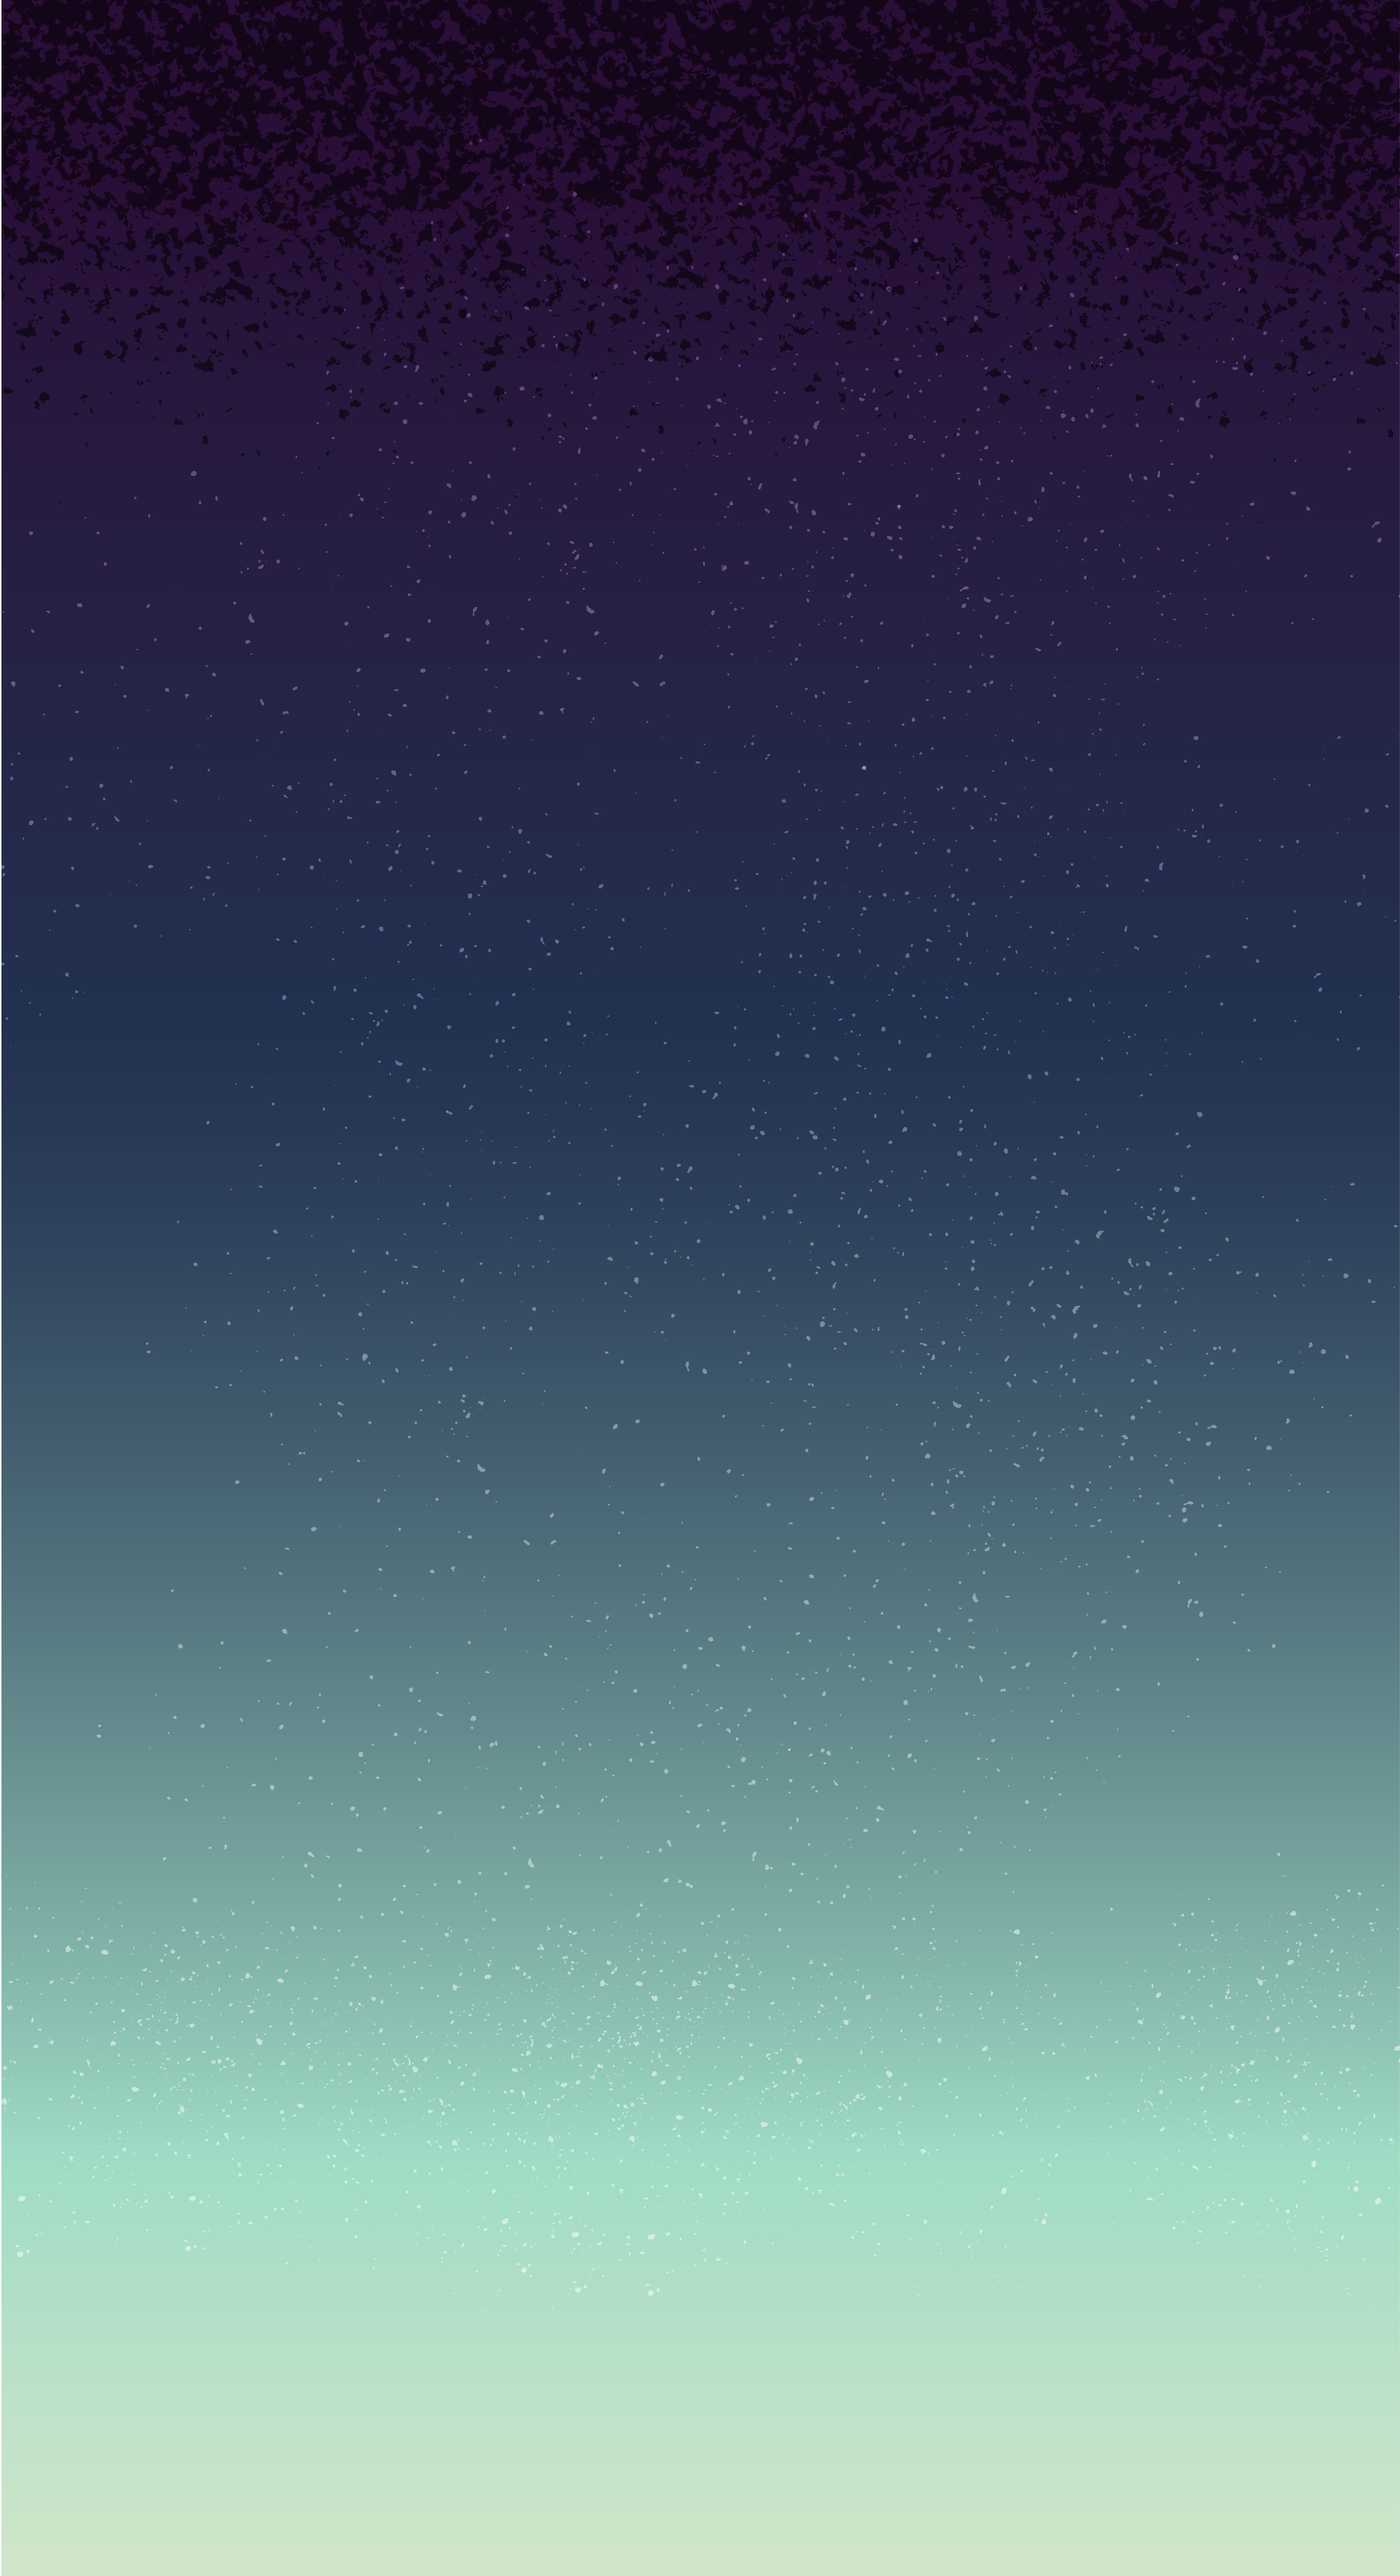
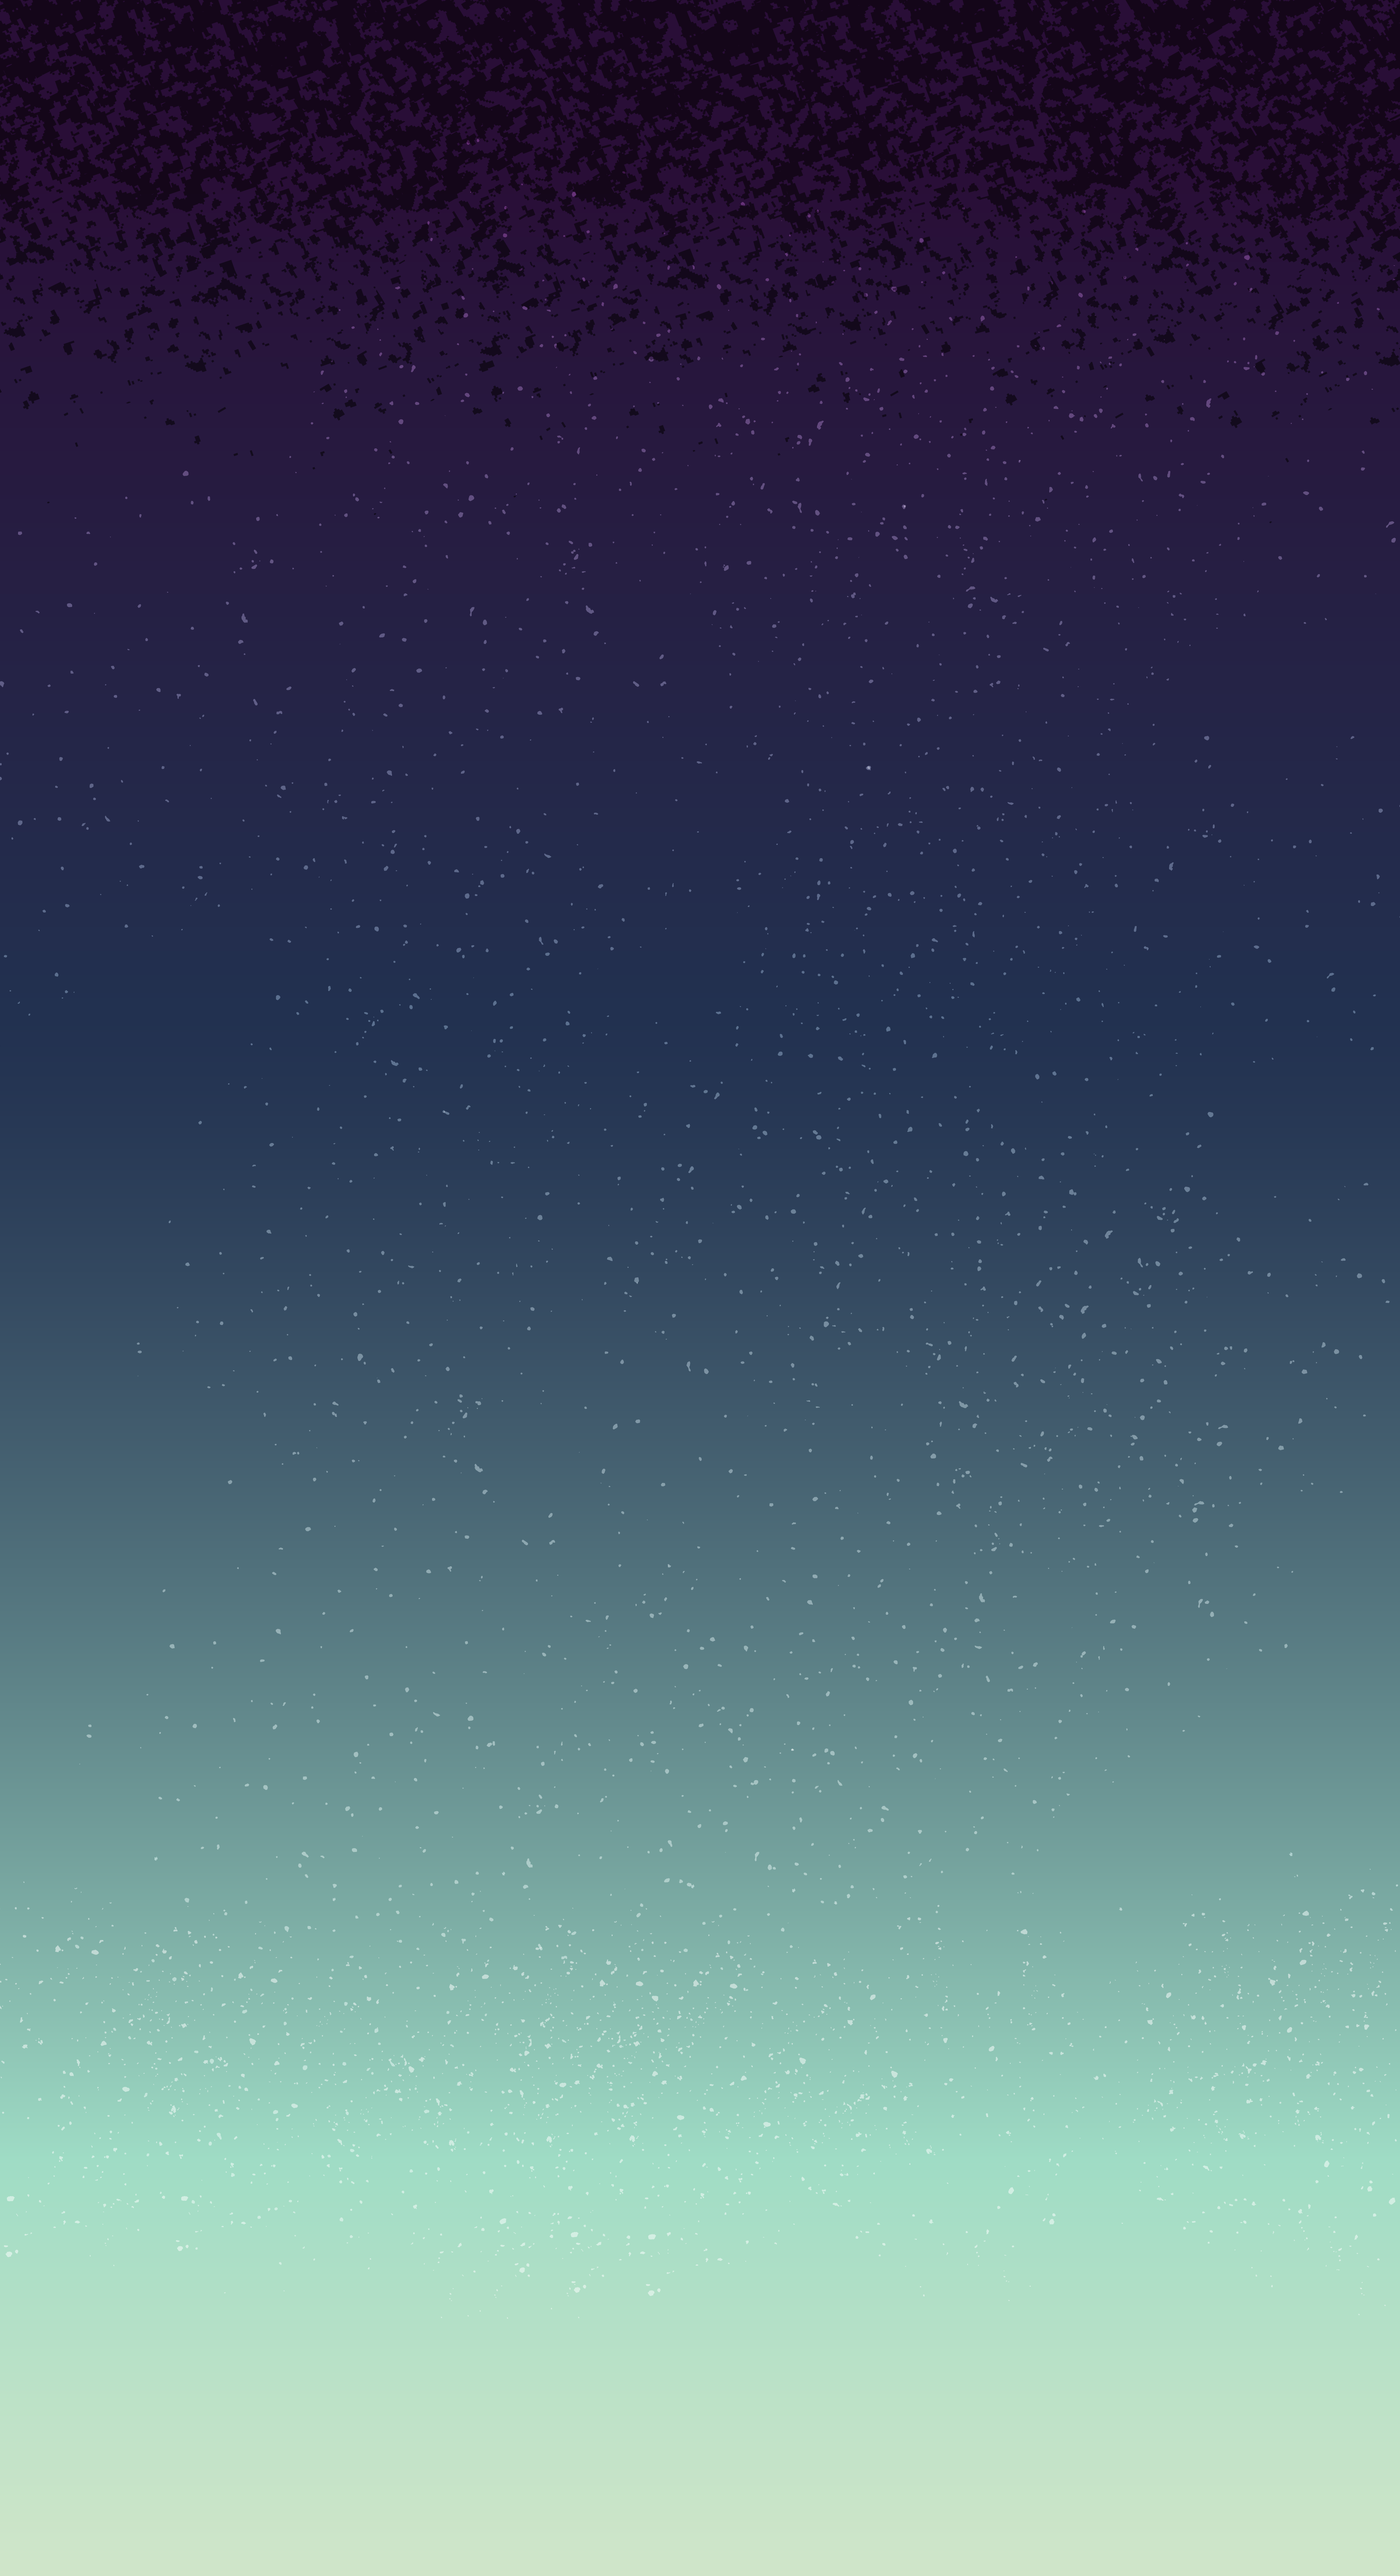
#frontend: implement responsive design

Changed region(s): [[0.4993, 0.0, 1.0, 0.8438], [0.0, 0.0, 0.4057, 0.1562]]

diff --git a/frontend/src/views/participant/ParticipantModuleContent.vue b/frontend/src/views/participant/ParticipantModuleContent.vue
@@ -1,34 +1,36 @@
 <template>
-  <div class="overlay">
-    <MenuBar />
-    <el-tabs
-      :stretch="false"
-      v-if="task && task.modules.length > 1"
-      v-model="moduleName"
-      class="white"
-      @tab-click="(tab) => moduleNameClick(tab.paneName)"
-    >
-      <el-tab-pane
-        v-for="module in task.modules"
-        :key="module.name"
-        :name="module.name"
+  <div>
+    <div class="overlay">
+      <MenuBar />
+      <el-tabs
+        :stretch="false"
+        v-if="task && task.modules.length > 1"
+        v-model="moduleName"
+        class="white"
+        @tab-click="(tab) => moduleNameClick(tab.paneName)"
       >
-        <template #label>
-          <span class="icon" v-if="module.icon">
-            <font-awesome-icon :icon="module.icon" />
-          </span>
-          <span class="text">
-            {{ $t(`module.${taskType}.${module.name}.description.title`) }}
-          </span>
-        </template>
-      </el-tab-pane>
-    </el-tabs>
+        <el-tab-pane
+          v-for="module in task.modules"
+          :key="module.name"
+          :name="module.name"
+        >
+          <template #label>
+            <span class="icon" v-if="module.icon">
+              <font-awesome-icon :icon="module.icon" />
+            </span>
+            <span class="text">
+              {{ $t(`module.${taskType}.${module.name}.description.title`) }}
+            </span>
+          </template>
+        </el-tab-pane>
+      </el-tabs>
+    </div>
+    <ParticipantModuleComponent
+      :task-id="taskId"
+      :module-id="moduleId"
+      :key="componentLoadIndex"
+    />
   </div>
-  <ParticipantModuleComponent
-    :task-id="taskId"
-    :module-id="moduleId"
-    :key="componentLoadIndex"
-  />
 </template>
 
 <script lang="ts">

diff --git a/frontend/src/views/moderator/ModeratorRegister.vue b/frontend/src/views/moderator/ModeratorRegister.vue
@@ -48,10 +48,7 @@
           <el-form-item
             :label="$t('moderator.view.register.email')"
             prop="email"
-            :rules="[
-              defaultFormRules.ruleRequired,
-              defaultFormRules.ruleEmail,
-            ]"
+            :rules="[defaultFormRules.ruleRequired, defaultFormRules.ruleEmail]"
           >
             <el-input
               type="email"
@@ -161,7 +158,6 @@ export default class ModeratorRegister extends Vue {
 <style lang="scss" scoped>
 .register {
   display: grid;
-  grid-template-columns: 3fr 5fr;
   padding: 0;
   margin: 0;
 
@@ -187,6 +183,22 @@ export default class ModeratorRegister extends Vue {
   &__text {
     line-height: 1.5;
     padding: 0.5rem 2rem 0;
+  }
+}
+
+@media only screen and (min-width: 950px) {
+  .register {
+    grid-template-columns: 3fr 5fr;
+  }
+}
+
+@media only screen and (max-width: 949px) {
+  .register {
+    grid-template-rows: 2fr 6fr;
+
+    section {
+      min-height: 100%;
+    }
   }
 }
 </style>

diff --git a/frontend/src/views/participant/ParticipantOverview.vue b/frontend/src/views/participant/ParticipantOverview.vue
@@ -1,5 +1,7 @@
 <template>
-  <div class="overview container2--fullheight">
+  <div
+    class="overview container2 container2--fullheight container2__participant"
+  >
     <div class="container2">
       <MenuBar />
       <SessionInfo :title="sessionName" :description="sessionDescription" />
@@ -113,10 +115,9 @@ export default class ParticipantOverview extends Vue {
 .overview {
   color: #fff;
   background: var(--color-darkblue);
-  background-image: url('~@/assets/illustrations/stars-background.png');
-  background-attachment: fixed;
-  background-repeat: no-repeat;
-  background-size: cover;
+  background: url('~@/assets/illustrations/stars-background-repeat.png');
+  //background-attachment: fixed;
+  background-size: contain;
 
   &__module + .overview__module {
     margin-left: 1.5rem;

diff --git a/frontend/src/assets/styles/layout.scss b/frontend/src/assets/styles/layout.scss
@@ -145,3 +145,37 @@
     }
   }
 }
+
+.level {
+  &.is-desktop {
+    flex-direction: column;
+    display: flex;
+    align-items: stretch;
+
+    .level-left, .level-right {
+      flex-direction: column;
+      display: flex;
+      max-width: unset;
+      width: unset;
+      align-items: stretch;
+
+      .level-item {
+        max-width: unset;
+        width: unset;
+
+        div {
+          text-align: center;
+        }
+      }
+    }
+
+    .level-left + .level-right[data-v-7d4100c9] {
+      margin-top: 1.5rem;
+    }
+
+    .level-left .level-item:not(:last-child), .level-right .level-item:not(:last-child) {
+      margin-right: unset;
+      margin-left: unset;
+    }
+  }
+}

diff --git a/frontend/src/views/moderator/ModeratorLogin.vue b/frontend/src/views/moderator/ModeratorLogin.vue
@@ -122,7 +122,6 @@ export default class ModeratorLogin extends Vue {
 <style lang="scss" scoped>
 .login {
   display: grid;
-  grid-template-columns: 5fr 3fr;
   padding: 0;
   margin: 0;
 
@@ -153,6 +152,22 @@ export default class ModeratorLogin extends Vue {
   &__forgot-pw {
     text-align: center;
     cursor: pointer;
+  }
+}
+
+@media only screen and (min-width: 950px) {
+  .login {
+    grid-template-columns: 5fr 3fr;
+  }
+}
+
+@media only screen and (max-width: 949px) {
+  .login {
+    grid-template-rows: 6fr 2fr;
+
+    section {
+      min-height: 100%;
+    }
   }
 }
 </style>

diff --git a/frontend/src/modules/index.ts b/frontend/src/modules/index.ts
@@ -3,7 +3,7 @@ import config from './config.json';
 import ModuleComponentType from '@/modules/ModuleComponentType';
 import { RouteRecordRaw } from 'vue-router';
 import TaskType from '@/types/enum/TaskType';
-import {ModuleType} from "@/types/enum/ModuleType";
+import { ModuleType } from '@/types/enum/ModuleType';
 
 /* eslint-disable @typescript-eslint/no-explicit-any*/
 

diff --git a/frontend/src/views/PublicScreen.vue b/frontend/src/views/PublicScreen.vue
@@ -116,7 +116,7 @@ export default class PublicScreen extends Vue {
 </script>
 <style lang="scss" scoped>
 .public-screen {
-  background: url('~@/assets/illustrations/stars-background_without_dust.png');
+  background: url('~@/assets/illustrations/stars-background-repeat.png');
   background-size: contain;
   min-height: 100vh;
 

diff --git a/frontend/src/components/moderator/organisms/cards/TaskCard.vue b/frontend/src/components/moderator/organisms/cards/TaskCard.vue
@@ -1,6 +1,6 @@
 <template>
   <el-card class="card" shadow="hover" :body-style="{ padding: '0px' }">
-    <span class="level" ref="item">
+    <span class="level" :class="{ 'is-desktop': isParticipant }" ref="item">
       <span class="level-left">
         <div
           class="level-item card__planet stack__container link"

diff --git a/frontend/src/components/moderator/organisms/settings/TaskSettings.vue b/frontend/src/components/moderator/organisms/settings/TaskSettings.vue
@@ -274,8 +274,7 @@ export default class TaskSettings extends Vue {
   TaskType = TaskType;
 
   get mainModule(): string {
-    if (this.moduleSelectionMain.length > 0)
-      return this.moduleSelectionMain[0];
+    if (this.moduleSelectionMain.length > 0) return this.moduleSelectionMain[0];
     return '';
   }
 

diff --git a/frontend/src/assets/styles/global.scss b/frontend/src/assets/styles/global.scss
@@ -294,10 +294,19 @@ body {
 }
 
 .container2 {
-  max-width: 1480px;
+  //max-width: 1480px;
+  margin: 0 auto;
   width: 100%;
   box-sizing: border-box;
   padding: 1rem 2rem;
+
+  &__participant {
+    //max-width: 960px;
+  }
+
+  &__moderator {
+
+  }
 
   &--fullheight {
     display: flex;

diff --git a/frontend/src/views/participant/ParticipantJoin.vue b/frontend/src/views/participant/ParticipantJoin.vue
@@ -2,7 +2,10 @@
   <div
     class="
       join
-      container2 container2--fullheight container2--centered-horizontal
+      container2
+      container2__participant
+      container2--fullheight
+      container2--centered-horizontal
     "
   >
     <main class="join__content">

diff --git a/frontend/src/modules/none/output/ModeratorConfig.vue b/frontend/src/modules/none/output/ModeratorConfig.vue
@@ -10,8 +10,7 @@ import { Module } from '@/types/api/Module';
 import { ValidationRuleDefinition, defaultFormRules } from '@/utils/formRules';
 
 @Options({
-  components: {
-  },
+  components: {},
 })
 
 /* eslint-disable @typescript-eslint/no-explicit-any*/
